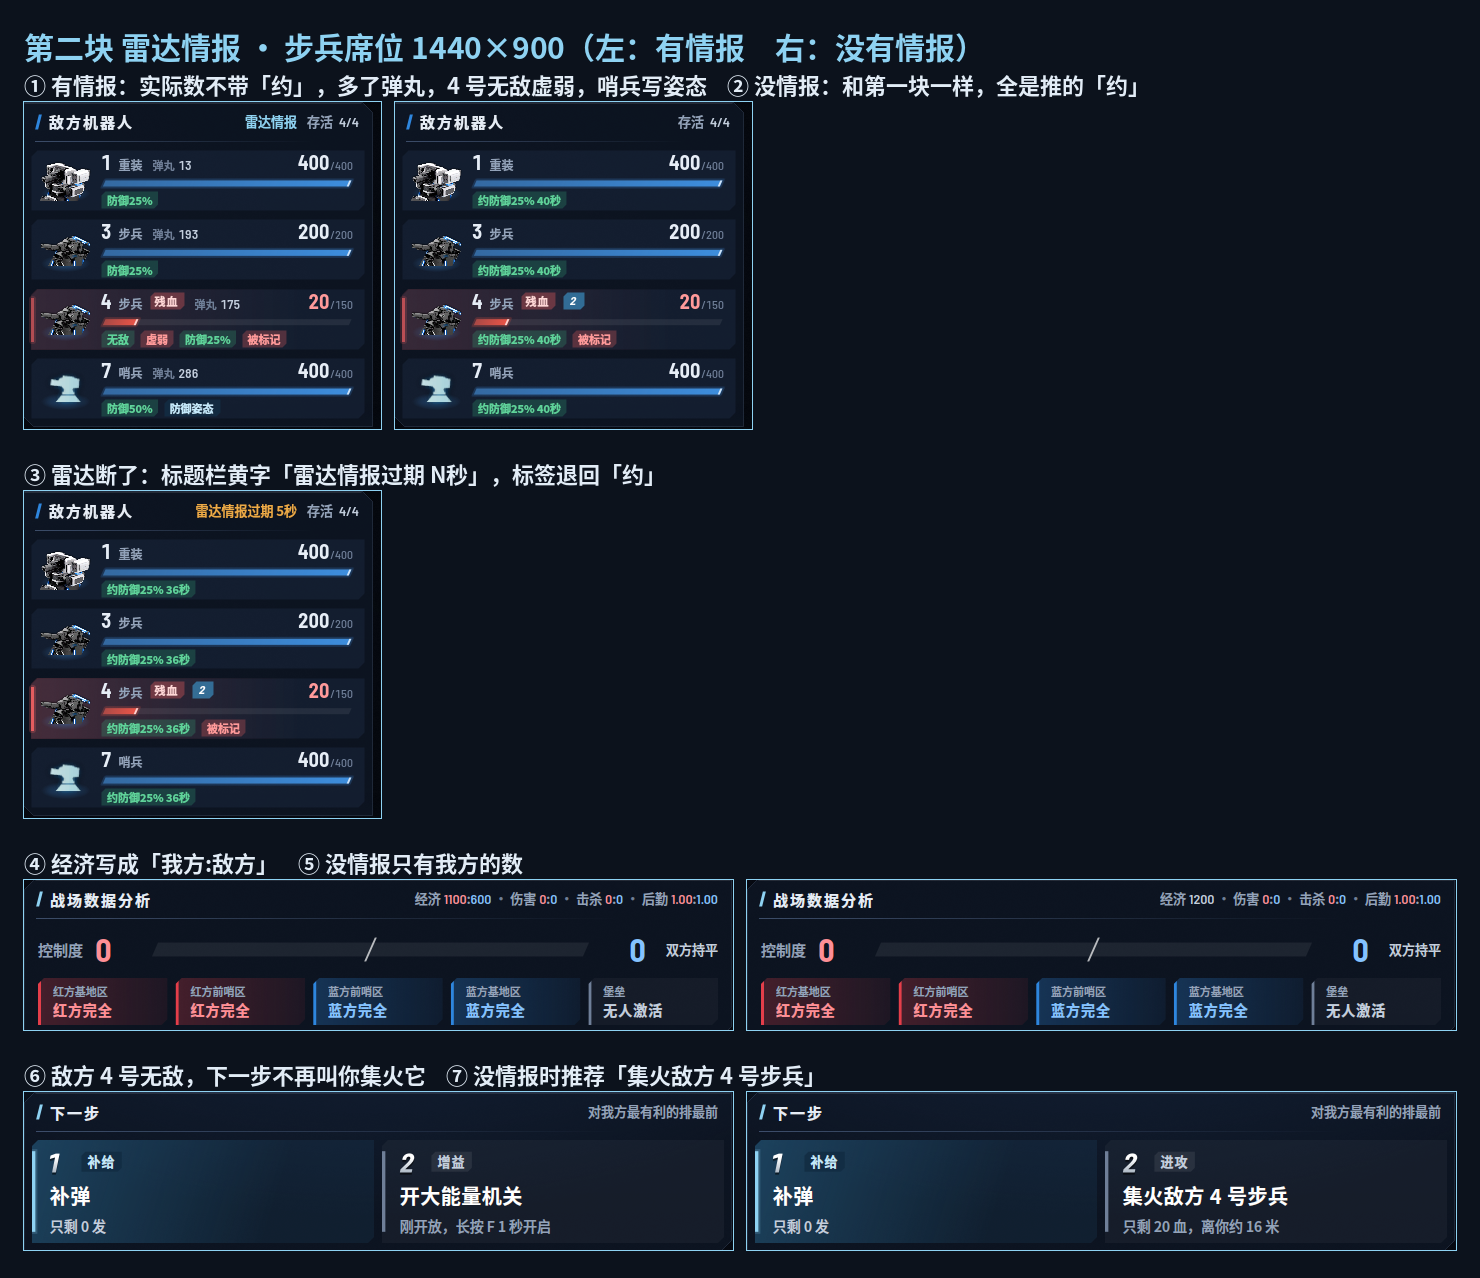
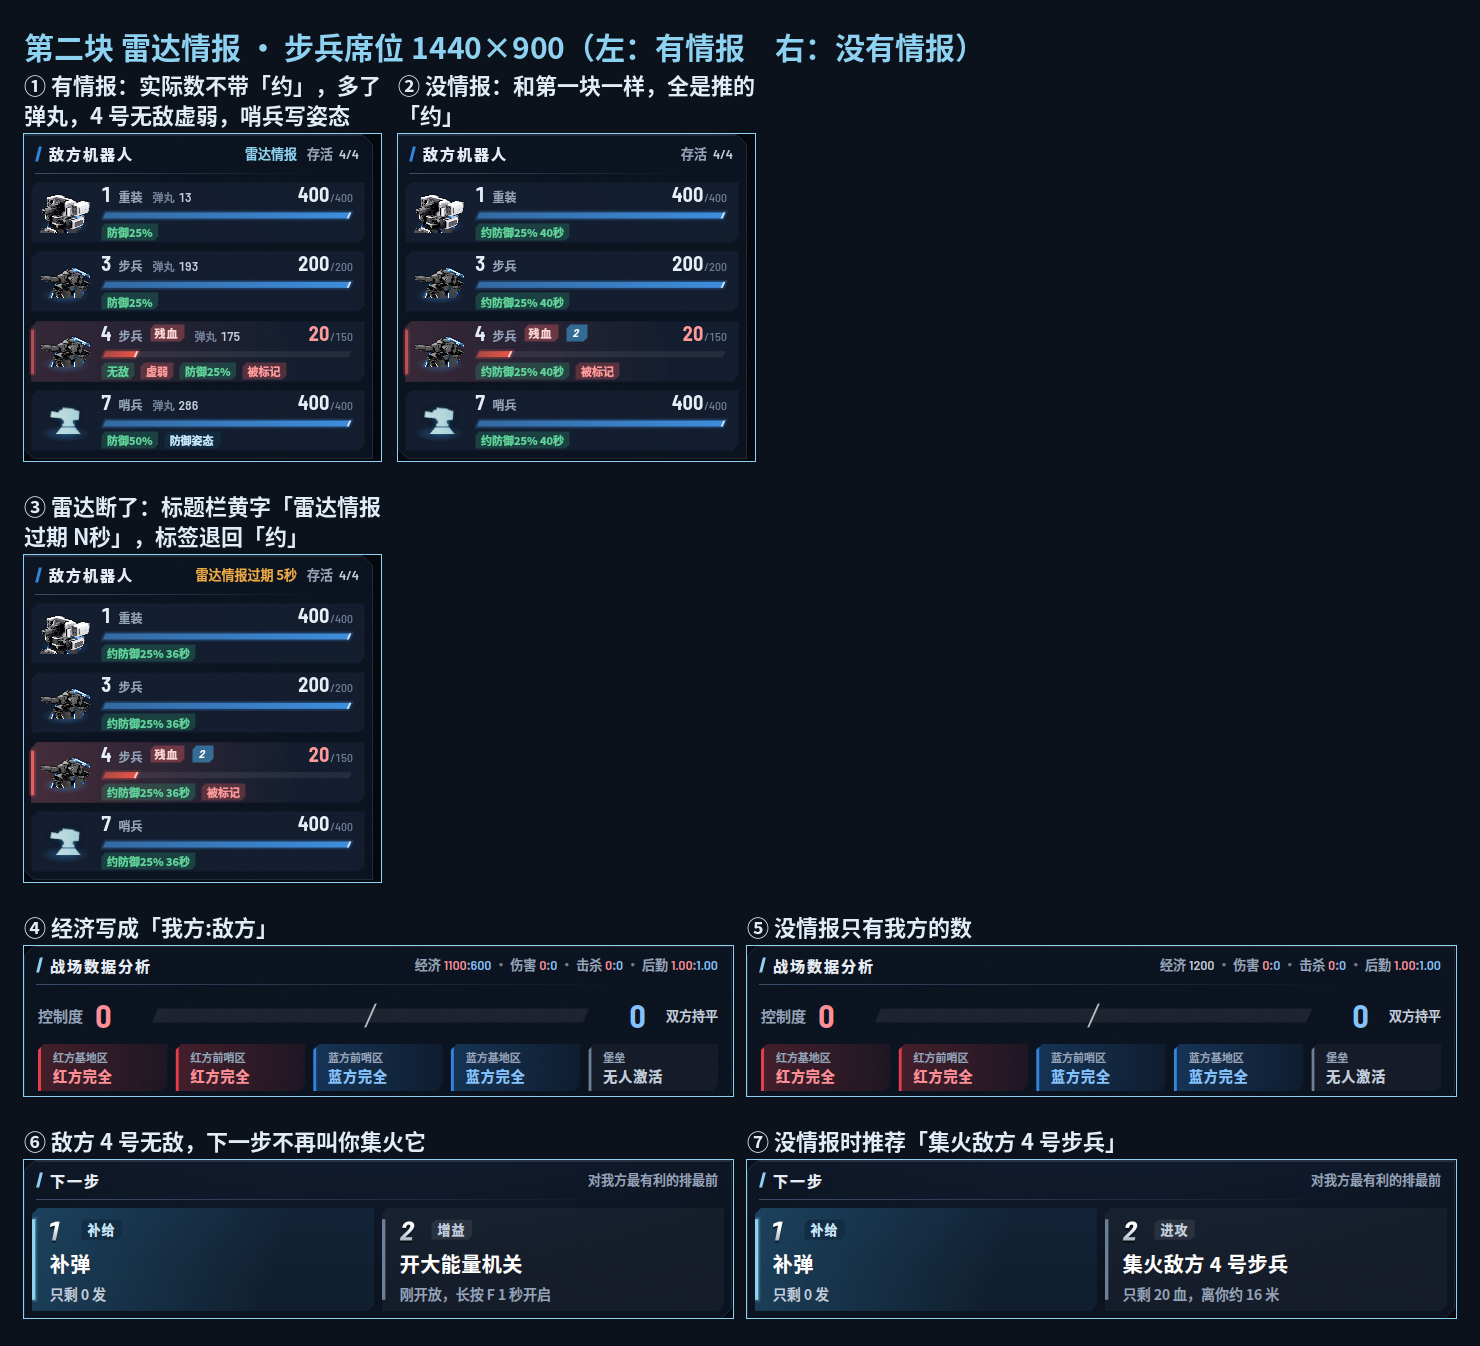
chore(assets): 场地坐标截图，拼图每块说明各自折行

Changed region(s): [[0.0, 0.0, 0.9946, 0.9765]]

diff --git a/scripts/shot_sheet.py b/scripts/shot_sheet.py
@@ -38,6 +38,17 @@ def font(size: int) -> ImageFont.FreeTypeFont:
     return ImageFont.truetype(path, size)
 
 
+def wrap(text: str, face: ImageFont.FreeTypeFont, width: int) -> list[str]:
+    lines, line = [], ""
+    for char in text:
+        if line and face.getlength(line + char) > width:
+            lines.append(line)
+            line = char.lstrip()
+        else:
+            line += char
+    return lines + [line] if line else lines
+
+
 def crop(folder: Path, part: dict) -> Image.Image:
     x, y, w, h = part["box"]
     image = Image.open(folder / part["src"]).convert("RGB").crop((x, y, x + w, y + h))
@@ -54,34 +65,39 @@ def main() -> int:
     spec = json.loads(spec_path.read_text(encoding="utf-8"))
     title_font, label_font = font(30), font(22)
 
-    blocks: list[tuple[str, list[Image.Image]]] = []
+    # 每块图上面是它自己的说明,按图的宽度折行(至少 360 像素宽)。
+    blocks: list[list[tuple[list[str], Image.Image]]] = []
     number = 0
     for entry in spec["parts"]:
-        group = entry["row"] if "row" in entry else [entry]
-        images = [crop(folder, part) for part in group]
-        labels = []
-        for part in group:
+        row = []
+        for part in entry["row"] if "row" in entry else [entry]:
             number += 1
-            labels.append(f"{chr(0x2460 + number - 1)} {part['label']}")
-        blocks.append(("    ".join(labels), images))
+            image = crop(folder, part)
+            text = f"{chr(0x2460 + number - 1)} {part['label']}"
+            row.append((wrap(text, label_font, max(image.width, 360)), image))
+        blocks.append(row)
 
-    width = max(sum(i.width for i in images) + GAP * (len(images) - 1) for _, images in blocks) + 2 * MARGIN
+    def row_width(row):
+        return sum(max(image.width, 360) for _, image in row) + GAP * (len(row) - 1)
+
+    width = max(max(row_width(row) for row in blocks) + 2 * MARGIN, int(title_font.getlength(spec["title"])) + 2 * MARGIN)
     height = MARGIN + 44
-    for _, images in blocks:
-        height += 34 + max(i.height for i in images) + GAP * 2
+    for row in blocks:
+        height += 30 * max(len(lines) for lines, _ in row) + 6 + max(image.height for _, image in row) + GAP * 2
     sheet = Image.new("RGB", (width, height), BACKGROUND)
     draw = ImageDraw.Draw(sheet)
     draw.text((MARGIN, MARGIN), spec["title"], font=title_font, fill=ACCENT)
     y = MARGIN + 44
-    for label, images in blocks:
-        draw.text((MARGIN, y), label, font=label_font, fill=TEXT)
-        y += 34
+    for row in blocks:
+        label_height = 30 * max(len(lines) for lines, _ in row) + 6
         x = MARGIN
-        for image in images:
-            sheet.paste(image, (x, y))
-            draw.rectangle((x - 1, y - 1, x + image.width, y + image.height), outline=ACCENT)
-            x += image.width + GAP
-        y += max(i.height for i in images) + GAP * 2
+        for lines, image in row:
+            for i, line in enumerate(lines):
+                draw.text((x, y + 30 * i), line, font=label_font, fill=TEXT)
+            sheet.paste(image, (x, y + label_height))
+            draw.rectangle((x - 1, y + label_height - 1, x + image.width, y + label_height + image.height), outline=ACCENT)
+            x += max(image.width, 360) + GAP
+        y += label_height + max(image.height for _, image in row) + GAP * 2
     sheet.save(folder / spec["sheet"])
     print(f"{folder / spec['sheet']}  {number} 块")
     return 0

diff --git a/artifacts/field/说明.md b/artifacts/field/说明.md
@@ -1,0 +1,11 @@
+# 场地坐标截图（第三块）
+
+重拍：`bash scripts/shoot_effects.sh field`，再 `python3 scripts/shot_sheet.py artifacts/field/sheet-infantry.json` 出拼图。私有端口，不碰 3333。
+
+- `changes-infantry.png`：这次改的地方拼在一张里。
+- `part-*.png`：拼图里的单块，文件名就是内容。
+- `intrusion-highland/tunnel/road-1440x900.png`：敌方 3 号分别从中央高地、隧道、起伏路段过中线（`intrude 103 …`），横幅写来路。起伏路段那张靠雷达情报的跨越点认出来。
+- `commander-intrusion-1440x900.png`：指挥手席位的入侵横幅。
+- `positions-1440x900.png`、`positions-1280x760.png`、`positions-1920x1080.png`：雷达情报关掉，摆好位置：我方 4 号在红方中央高地增益点、我方哨兵在基地增益点，敌方 4 号在蓝方中央高地增益点、敌方重装在蓝方补给区、敌方 3 号站在红方堡垒上并开始激活。
+
+坐标和分区的来源见仓库根目录的 `场地坐标.md`。
